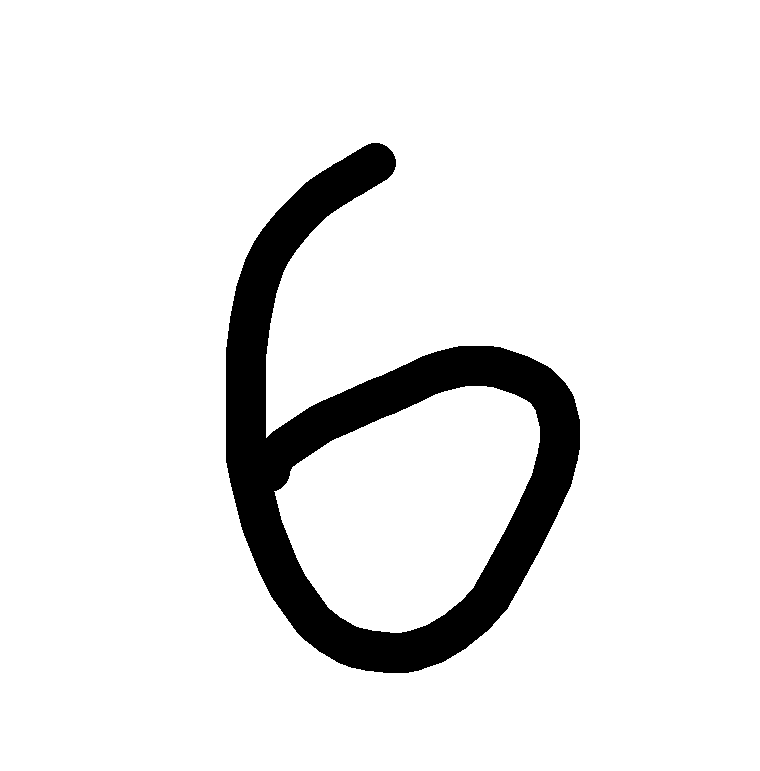
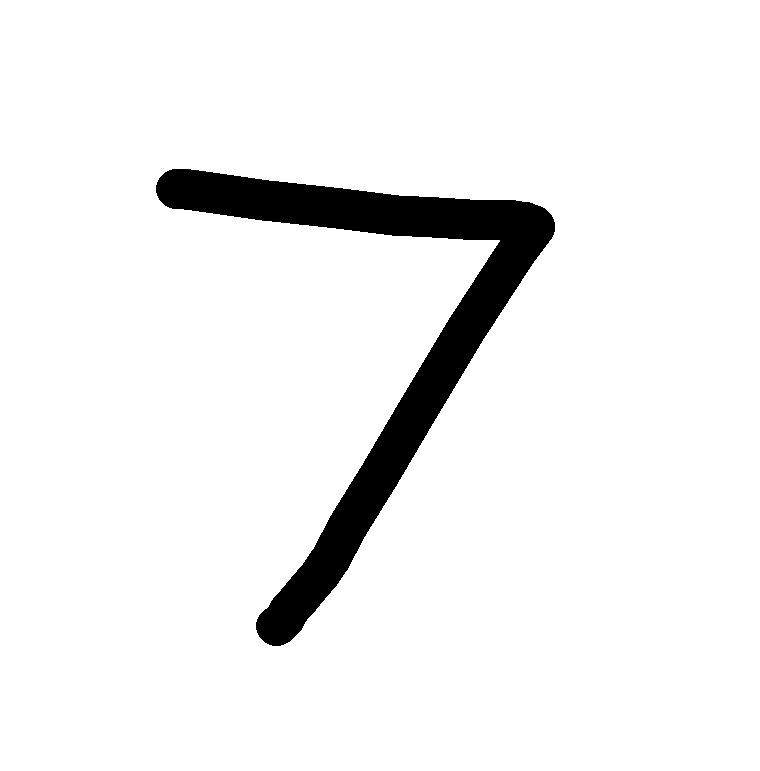
commit

Changed region(s): [[0.1816, 0.1868, 0.7868, 0.8716]]

diff --git a/JS/YtTheater/YouTube/YouTube.js b/JS/YtTheater/YouTube/YouTube.js
@@ -118,20 +118,4 @@ class YouTube {
       this.initTimeout = setTimeout(this.init.bind(this), 300);
     }
   }
-
-  // removeDarkTheme() {
-  //   if (this.html.getAttribute('dark') == 'ytlstm') {
-  //     this.html.removeAttribute('dark');
-  //     if (this.activePlayer === this.playerContainer) {
-  //       let masthead = document.getElementById('masthead');
-  //       if (masthead) masthead.removeAttribute('dark');
-  //     }
-  //   }
-  // }
-
-  // applyDarkTheme() {
-  //   if (!this.html.hasAttribute('dark')) {
-  //     this.html.setAttribute('dark', 'ytlstm');
-  //   }
-  // }
 }

diff --git a/python/reminder_bot/bot.py b/python/reminder_bot/bot.py
@@ -1,0 +1,58 @@
+import os
+import asyncio
+import discord
+from discord import app_commands
+
+# Get token from environment variable
+TOKEN = os.getenv("DISCORD_TOKEN")
+
+if TOKEN is None:
+    raise RuntimeError("DISCORD_TOKEN environment variable not set")
+
+class ReminderBot(discord.Client):
+    def __init__(self):
+        intents = discord.Intents.default()
+        super().__init__(intents=intents)
+        self.tree = app_commands.CommandTree(self)
+
+    async def setup_hook(self):
+        # Sync slash commands globally
+        await self.tree.sync()
+
+bot = ReminderBot()
+
+@bot.event
+async def on_ready():
+    print(f"✅ Logged in as {bot.user}")
+
+@bot.tree.command(name="remind", description="Send a reminder after some minutes (via DM)")
+@app_commands.describe(
+    user="Who should receive the reminder",
+    minutes="How many minutes from now",
+    message="The reminder message"
+)
+async def remind(
+    interaction: discord.Interaction,
+    user: discord.User,
+    minutes: int,
+    message: str
+):
+    # Acknowledge privately
+    await interaction.response.send_message(
+        f"⏰ Reminder set for {user.mention} in {minutes} minutes.",
+        ephemeral=True
+    )
+
+    # Wait asynchronously
+    await asyncio.sleep(minutes * 60)
+
+    # Try to DM the user
+    try:
+        await user.send(f"🔔 Reminder: {message}")
+    except discord.Forbidden:
+        await interaction.followup.send(
+            "❌ I couldn't DM that user (DMs disabled or bot blocked).",
+            ephemeral=True
+        )
+
+bot.run(TOKEN)
